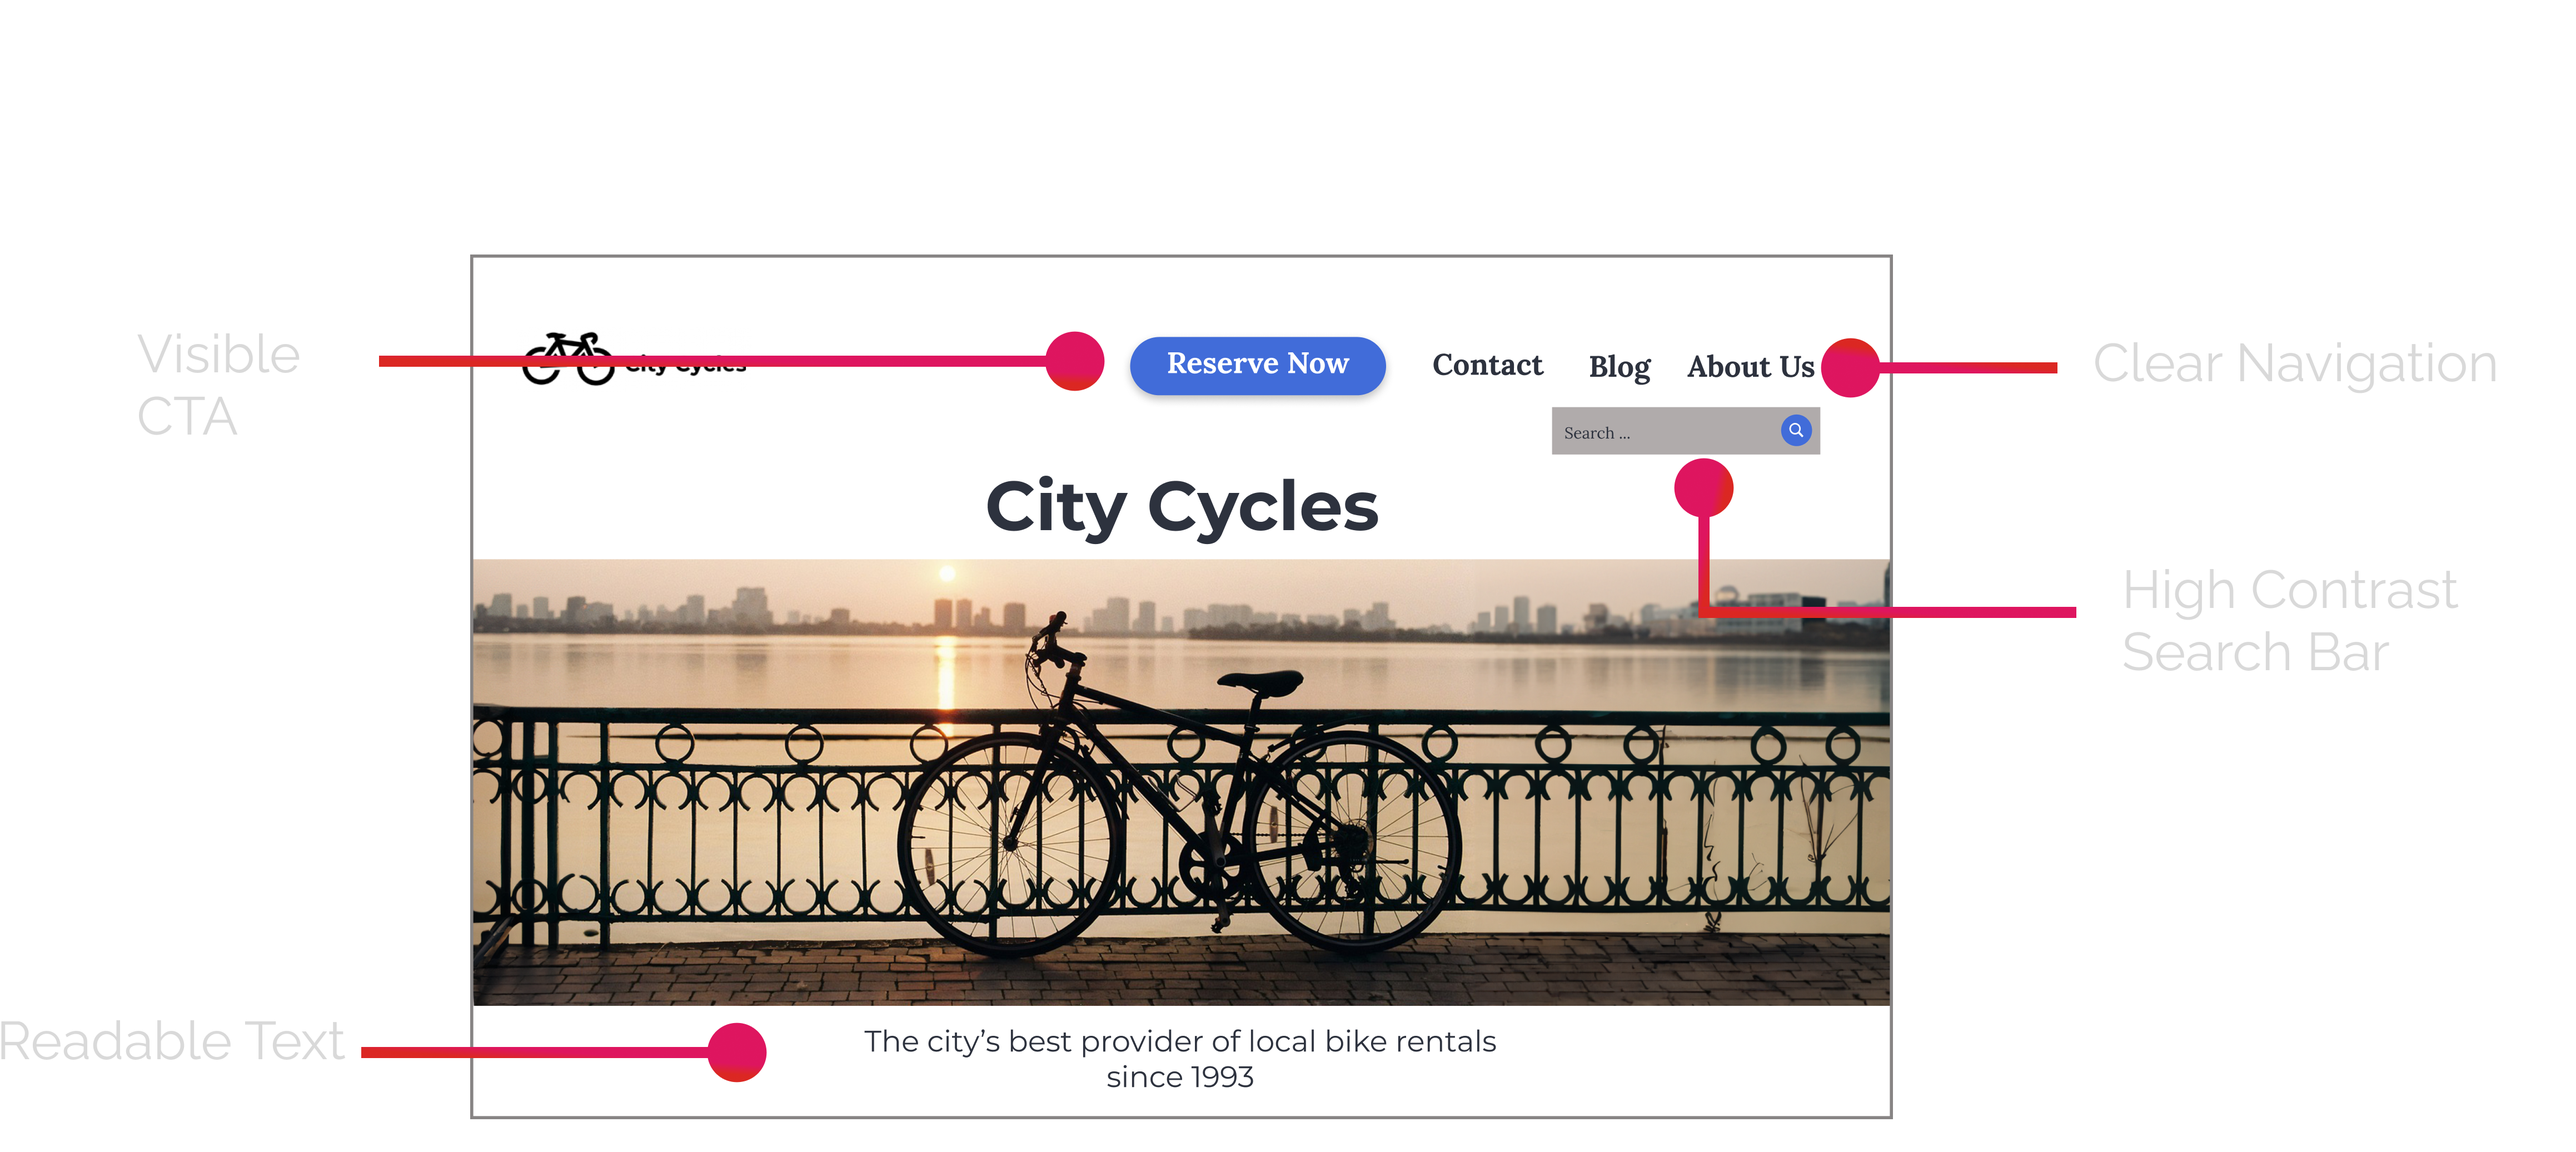
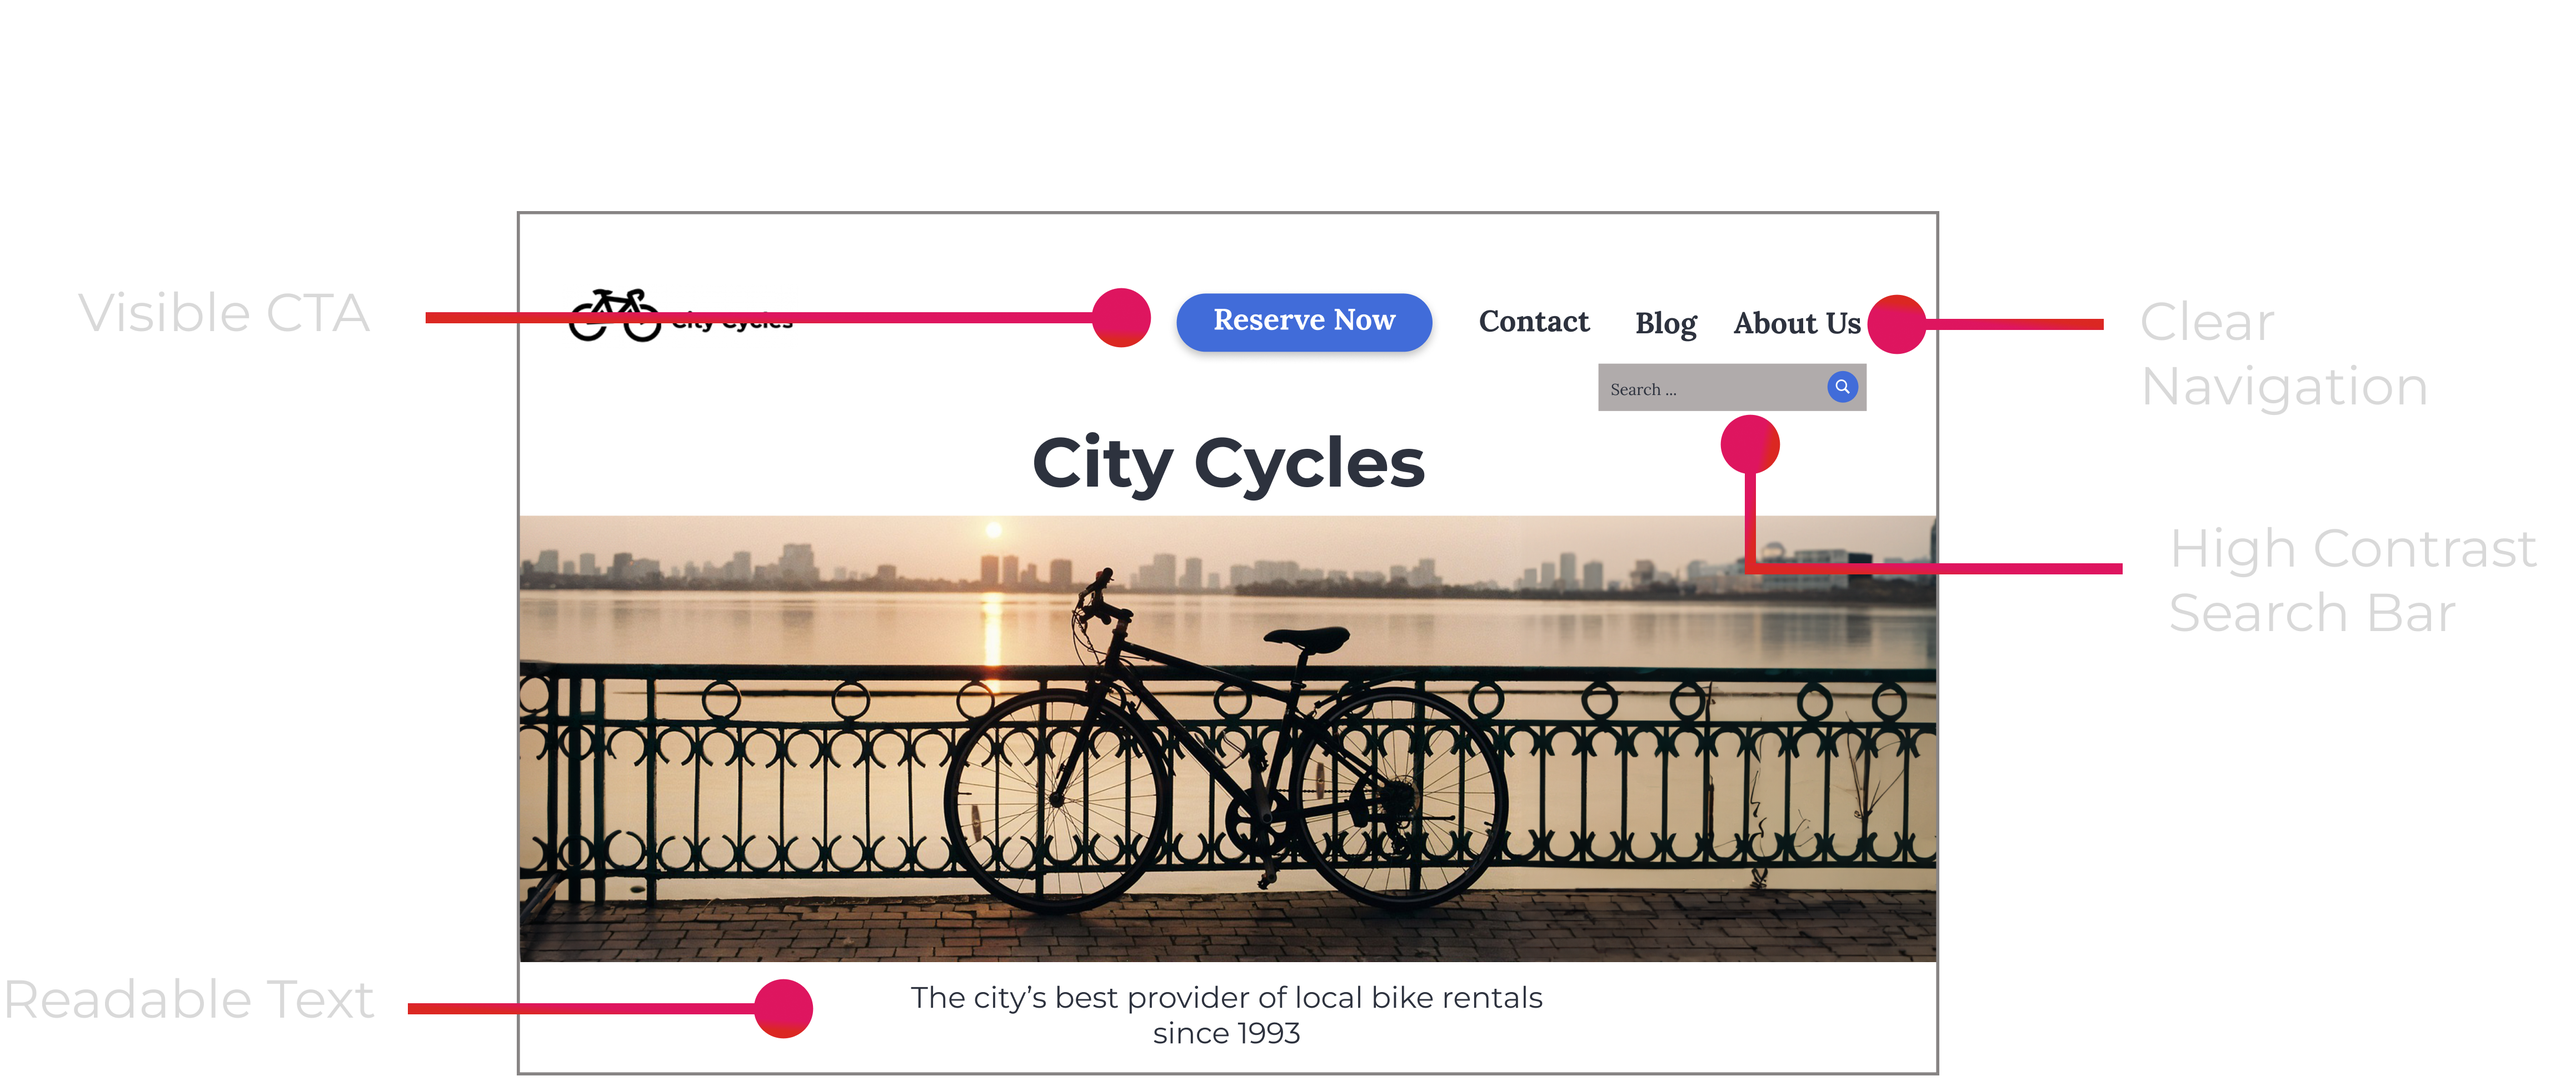
Update solutions section

Changed region(s): [[0.0, 0.2467, 0.9972, 1.0], [0.187, 0.2158, 0.2181, 0.2467]]

diff --git a/src/app/projects/city-cycles/page.tsx b/src/app/projects/city-cycles/page.tsx
@@ -300,13 +300,28 @@ function CityCycles() {
         <h3 className="pb-24">Solutions</h3>
         <div className="project-subsection">
           <h4>Home Page</h4>
-          <p className="pb-16">
-            I revamped the hero image and text scrolling to be more readable. I
-            also added a “Reserve Now” button to make clear how to begin the
-            rental process. I also changed one navigation tab from “Hours” to
-            “About Us” to help users navigate the site better. I also moved the
-            search bar to the top so it is easier to see as well as grouped with
-            the other navigational tabs.
+          <ul className="list-disc">
+            <li>Replaced the hero image and text scrolling for readability</li>
+            <li>
+              Added a “Reserve Now” CTA to make clear how to begin the rental
+              process
+            </li>
+            <li>
+              Changed one navigation tab from “Hours” to “About Us” for a better
+              description of the website’s pages, so users are less reliant on
+              the search bar
+            </li>
+            <li>
+              Grouped a more visible search bar with the other navigational tabs
+              for better informational architecture
+            </li>
+          </ul>
+          <p>
+            Because early rounds of user interviews described an “annoying” and
+            “frustrating” rental process, all of these elements make starting
+            the reservation more user-friendly and less confusing, encouraging
+            site visitors to start the rental process and reduce the 40%
+            Homepage bounce rate.
           </p>
         </div>
         <StaticImage
